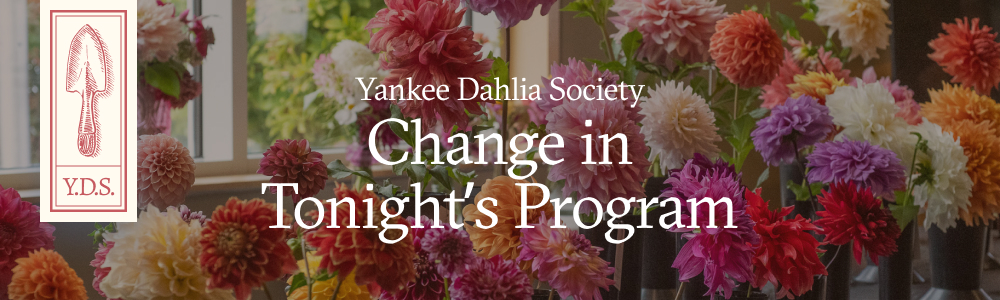
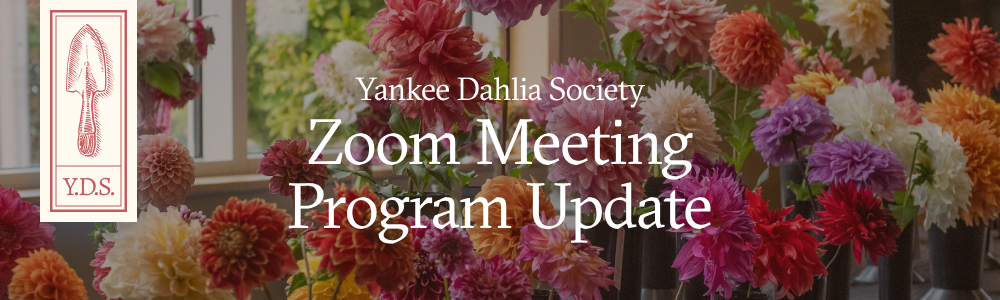
email update

Changed region(s): [[0.31, 0.39, 0.744, 0.81], [0.248, 0.6, 0.403, 0.78]]

diff --git a/202404/20240407_meeting-rescheduled/index.html b/202404/20240407_meeting-rescheduled/index.html
@@ -222,7 +222,7 @@
                     mc:edit="preheader_leftcol_content"
                     class="preheader__text"
                   >
-                    <p>Change in Tonight's Program.</p>
+                    <p>April 7th Program Update</p>
                   </div>
                 </td>
                 <td>
@@ -236,7 +236,7 @@
                   <img
                     class="header__image"
                     width="100%"
-                    src="header.jpg"
+                    src="https://johnthedesigner.github.io/yds-email/202404/20240407_meeting-rescheduled/header.jpg"
                     alt="Newsletter Header"
                   />
                 </td>
@@ -267,18 +267,6 @@
                           </tr>
                           <tr>
                             <td>
-                              <h1 class="intro-title">
-                                Change in tonight's program.
-                              </h1>
-                              <img
-                                src="misty-carol.jpg"
-                                width="100%"
-                                style="margin-top: 1rem"
-                              />
-                              <p>
-                                <em>Photo by John Livornese</em>
-                              </p>
-                              <hr class="divider" />
                               <p>Hi Everyone,</p>
                               <p>
                                 Tonight’s program with Jennifer Foster and Erica
